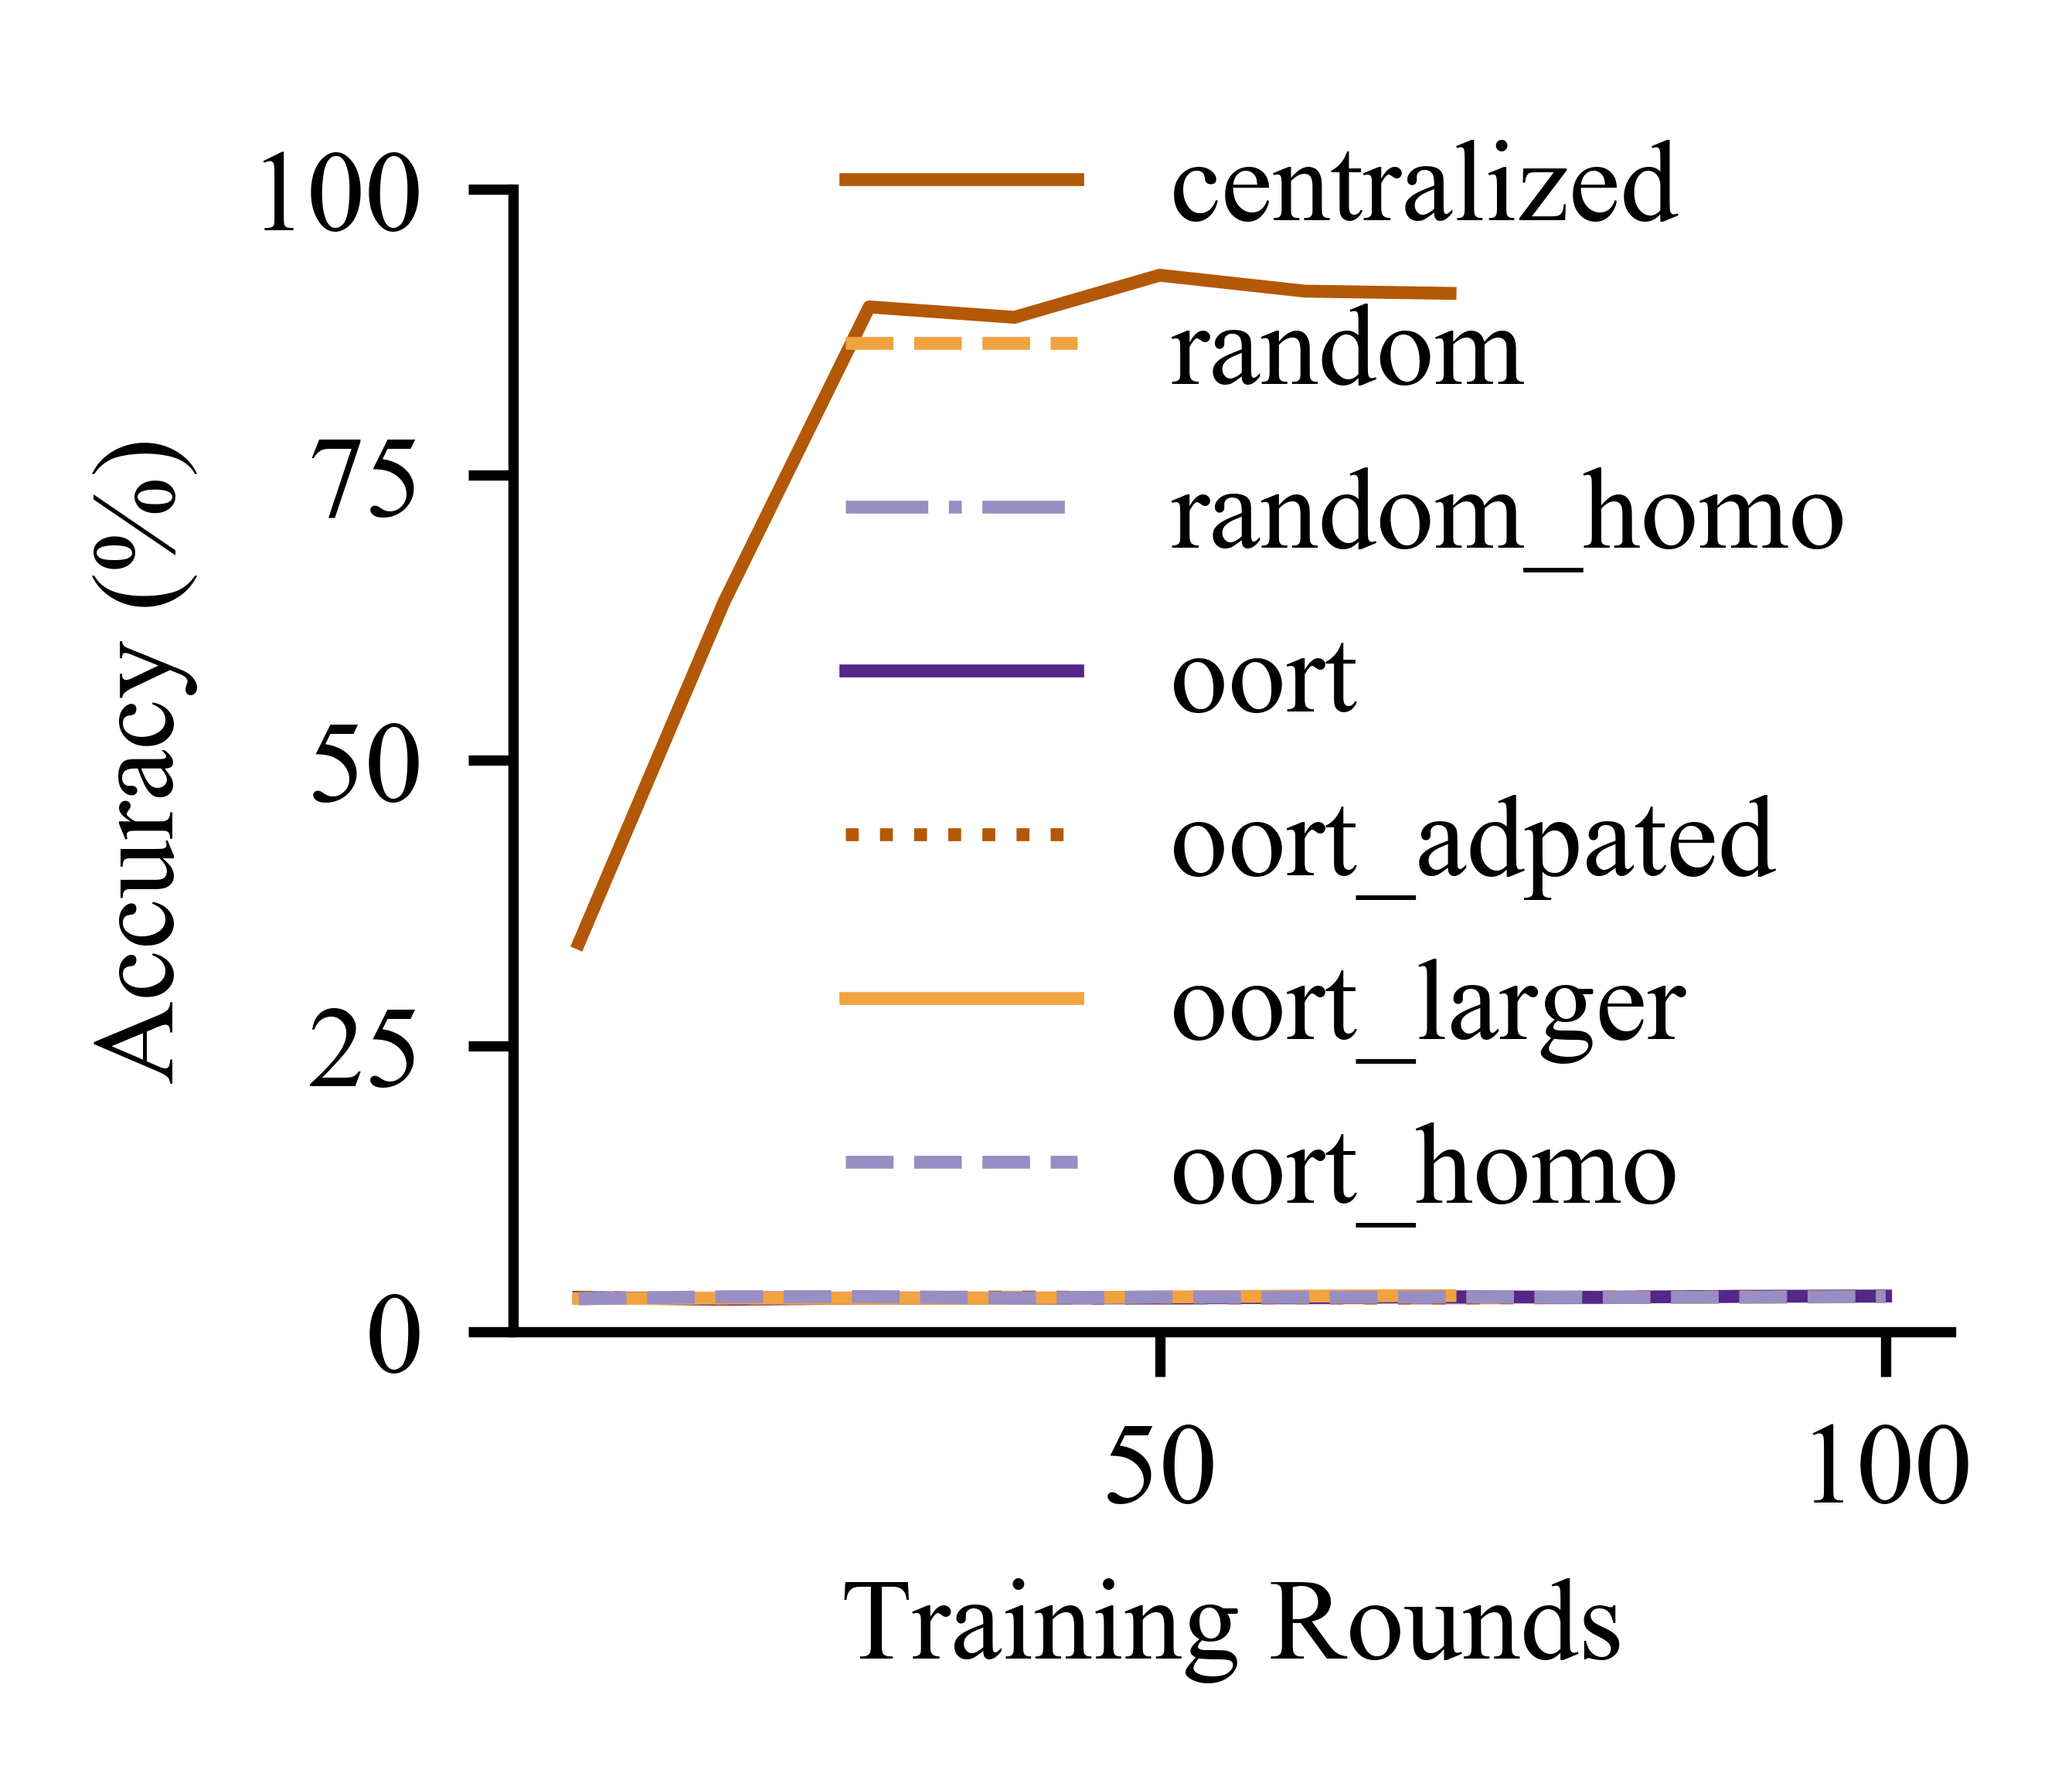
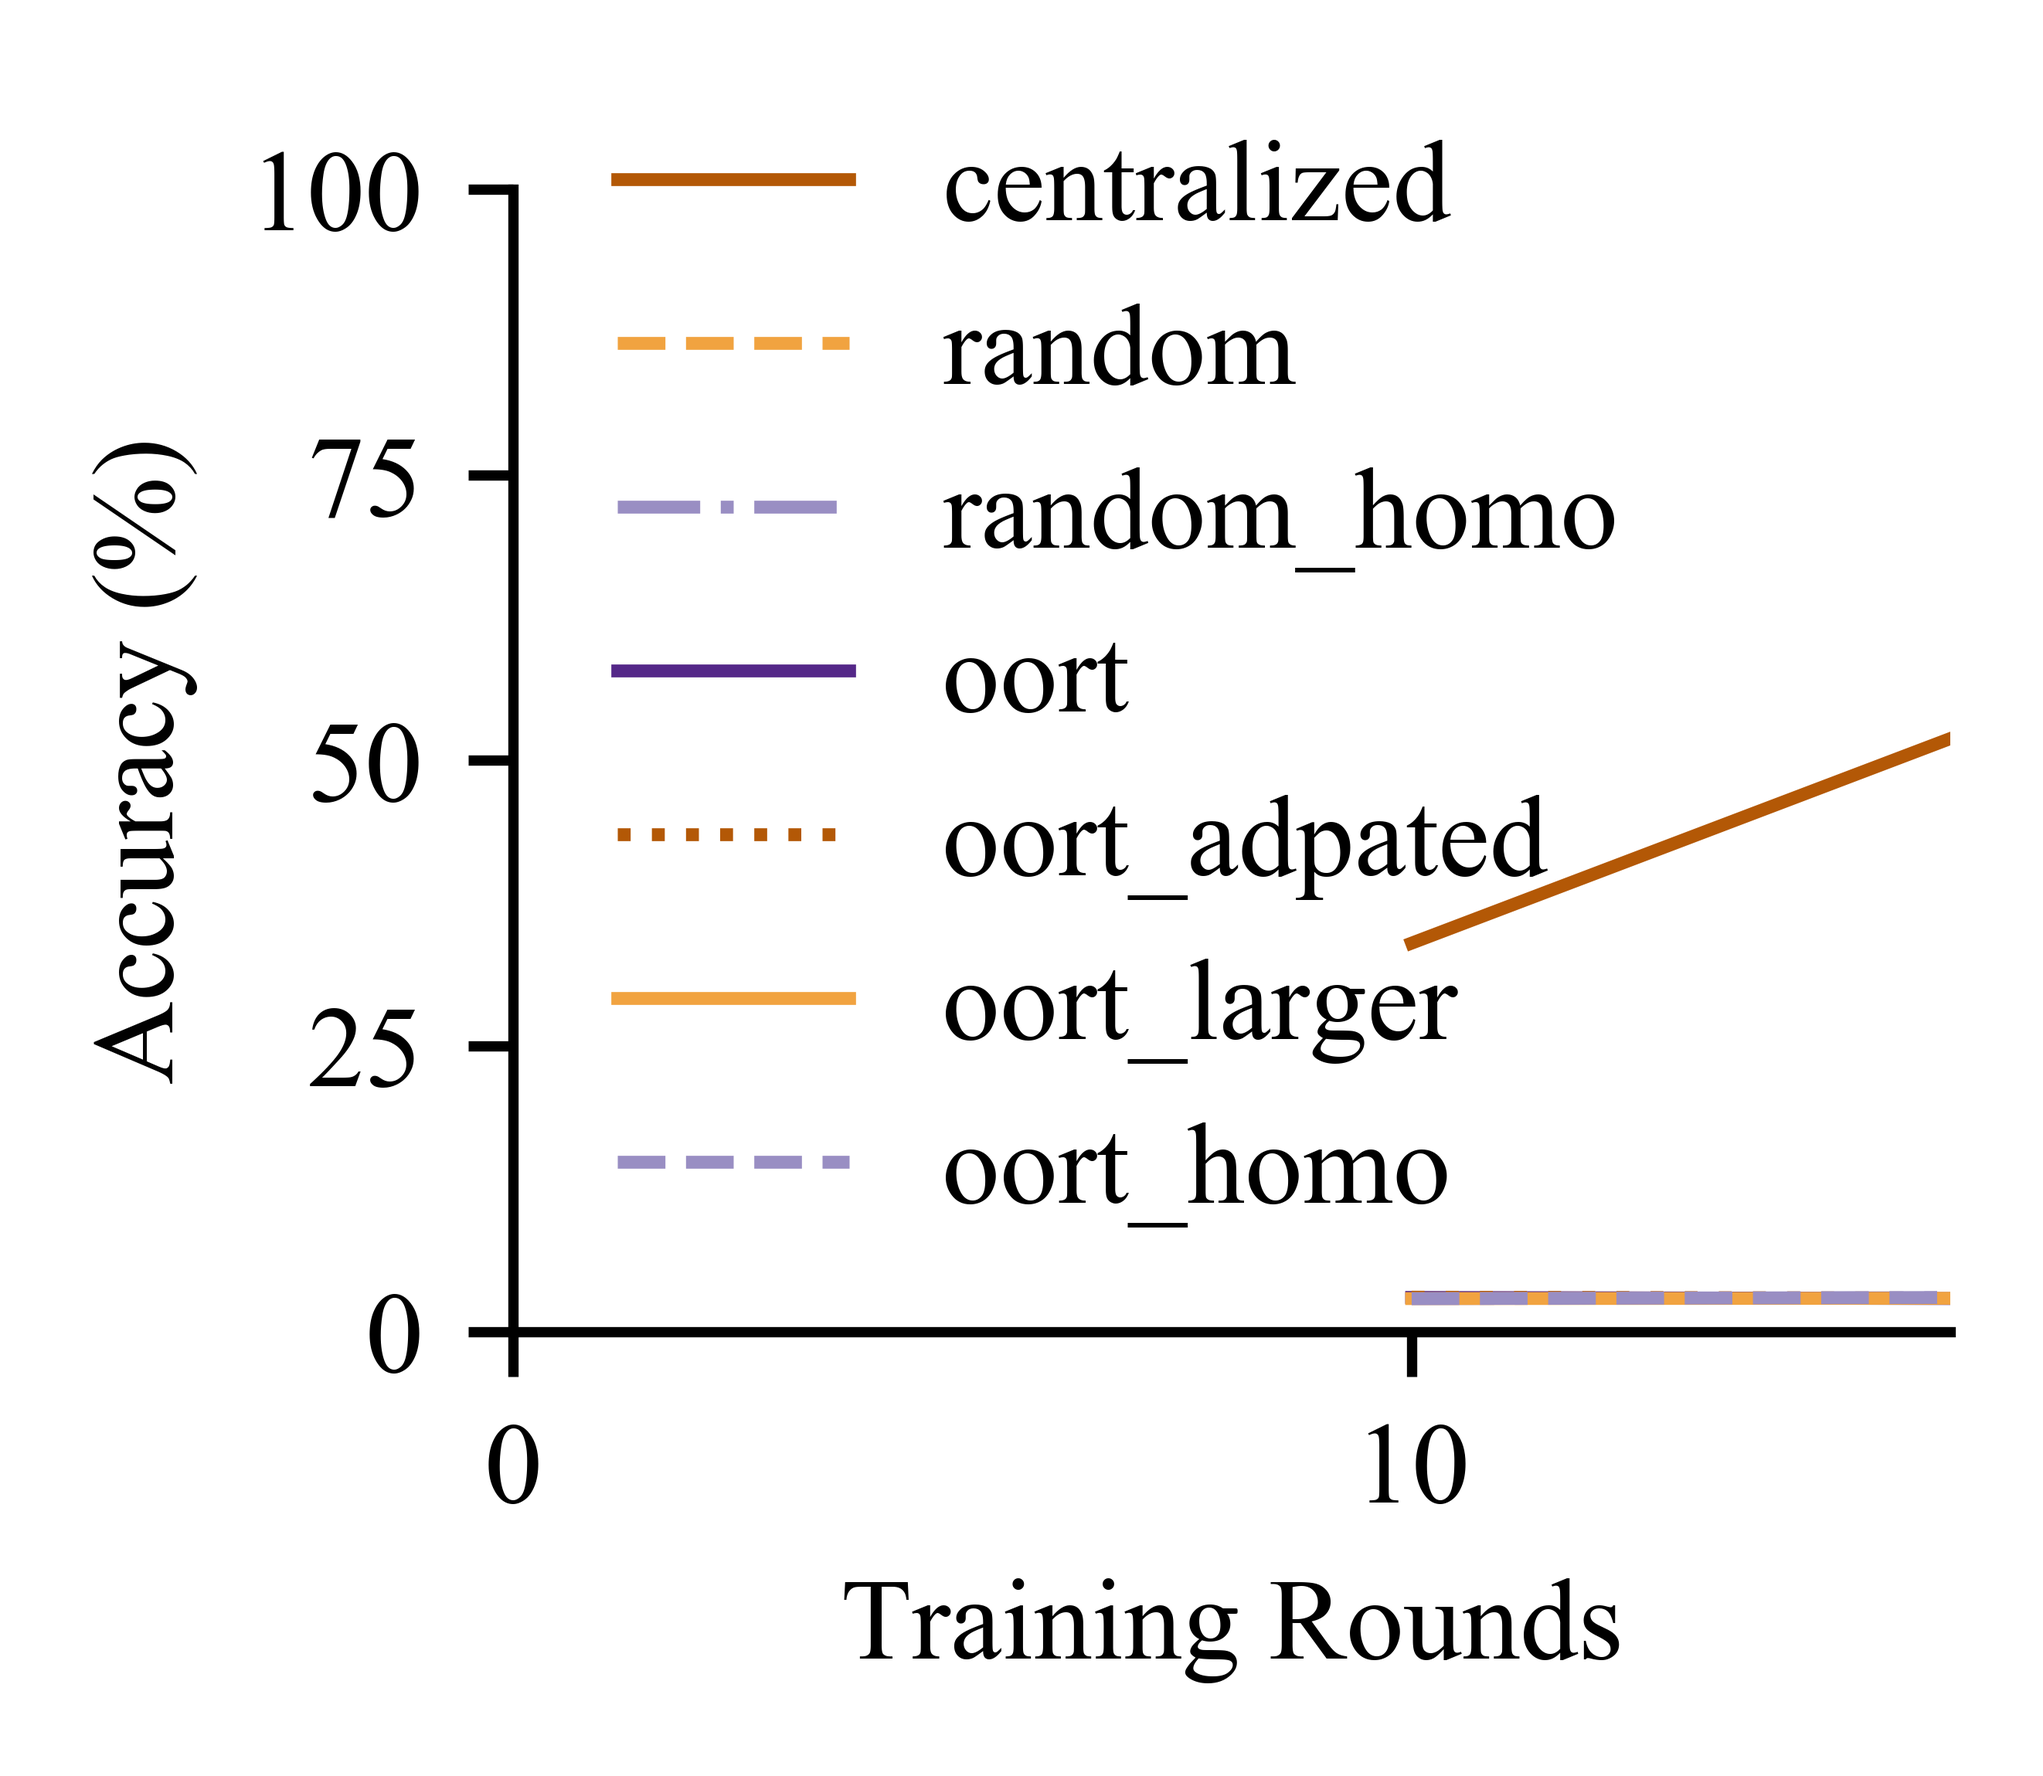
ms

diff --git a/core/evals/my_perf.py b/core/evals/my_perf.py
@@ -42,7 +42,7 @@ def plot_line(datas, xs, linelabels=None, label=None, y_label="CDF", name="my_pl
     plt.yticks(fontsize=_fontsize)
     plt.xticks(fontsize=_fontsize)
 
-    # plt.xlim(0, 16)
+    plt.xlim(0, 16)
     plt.ylim(0, 100)
 
     ax.set_ylabel(y_label, fontsize=_fontsize)
@@ -51,13 +51,13 @@ def plot_line(datas, xs, linelabels=None, label=None, y_label="CDF", name="my_pl
     plt.savefig(name, bbox_inches='tight')
 
 def run(task_prefix):
-    personalized = "none" # "meta" or "none" or "ditto"
+    personalized = "ditto" # "meta" or "none" or "ditto"
     task_dict = {
         f"centralized_{personalized}_all_test": "centralized",
         f"random_{personalized}_all_test": "random",
         f"random_homo_{personalized}_all_test": "random_homo",
         f"oort_{personalized}_all_test": "oort",
-        # f"oort_adapted_{personalized}_all_test": "oort_adpated",
+        f"oort_adapted_{personalized}_all_test": "oort_adpated",
         f"oort_larger_{personalized}_all_test": "oort_larger",
         f"oort_homo_{personalized}_all_test": "oort_homo",
         # f"greedy_{personalized}_all_test": "greedy"
